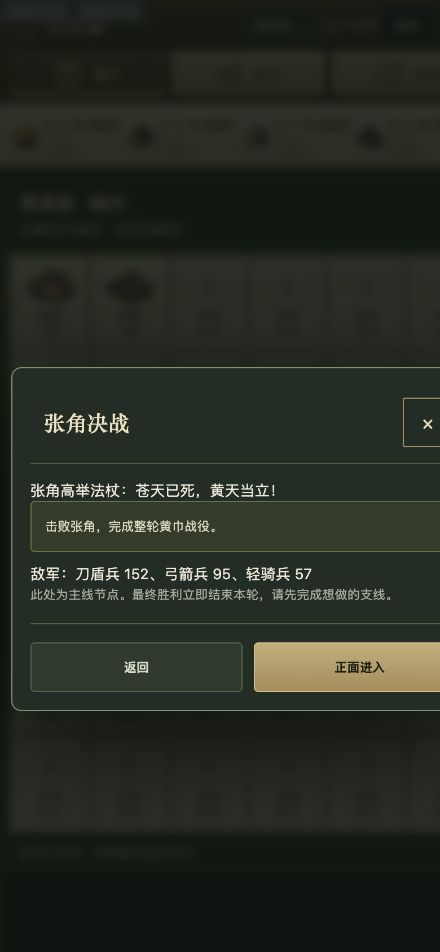
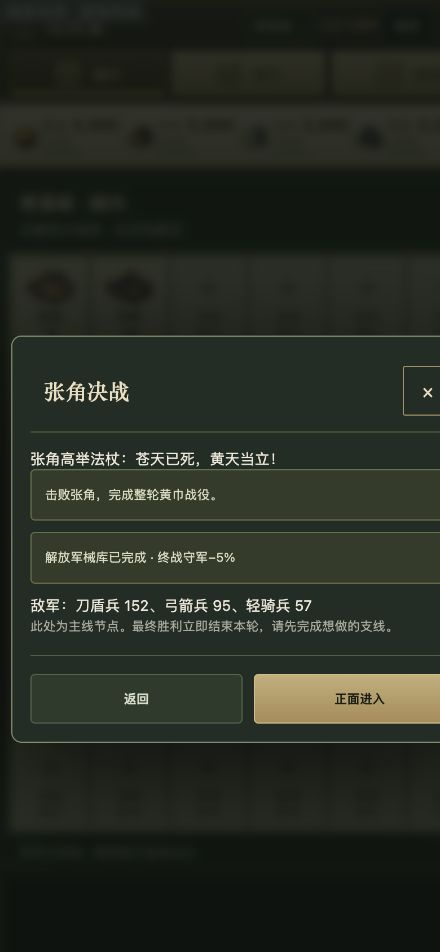
fix: preserve finished hero trait snapshots after dismissal

diff --git a/engine.js b/engine.js
@@ -311,7 +311,7 @@ const Game = (() => {
     for(const n of YellowCityData.allNodes()){const p=d.openCitySites[n.id];if(!object(p)||!Number.isInteger(p.x)||!Number.isInteger(p.y)||p.x<0||p.y<0||p.x>=WORLD_SIZE||p.y>=WORLD_SIZE||reservedSites.has(p.x+':'+p.y))return false;reservedSites.add(p.x+':'+p.y);}
     const node=id=>!!getNode(id,d);
     const timing=q=>finite(q.start)&&finite(q.end)&&q.end>q.start;
-    const frozen=(e,requireReturn=false)=>(e.traitProfile===undefined||HeroTraits.validProfile(e.traitProfile)&&e.traitProfile.id===HeroTraits.profile(d,e.general).id)&&(e.mountProfile===undefined||HeroSystem.validMountProfile(e.mountProfile))&&(e.generalSnapshot===undefined||object(e.generalSnapshot)&&e.generalSnapshot.id===e.general&&typeof e.generalSnapshot.name==='string'&&e.generalSnapshot.name.length<=100&&['atk','def','pol','wis','lead'].every(k=>finite(e.generalSnapshot[k])))&&(e.skillProfile===undefined||GeneralGrowth.validProfile(e.skillProfile))&&(e.returnSeconds===undefined?!(requireReturn&&e.mountProfile?.speed>0):finite(e.returnSeconds)&&e.returnSeconds>=1)&&(e.sourceCity===undefined||!!d.realm?.cities[e.sourceCity]);
+    const frozen=(e,requireReturn=false,validateIdentity=true)=>(e.traitProfile===undefined||HeroTraits.validProfile(e.traitProfile)&&(!validateIdentity||e.traitProfile.id===HeroTraits.profile(d,e.general).id))&&(e.mountProfile===undefined||HeroSystem.validMountProfile(e.mountProfile))&&(e.generalSnapshot===undefined||object(e.generalSnapshot)&&e.generalSnapshot.id===e.general&&typeof e.generalSnapshot.name==='string'&&e.generalSnapshot.name.length<=100&&['atk','def','pol','wis','lead'].every(k=>finite(e.generalSnapshot[k])))&&(e.skillProfile===undefined||GeneralGrowth.validProfile(e.skillProfile))&&(e.returnSeconds===undefined?!(requireReturn&&e.mountProfile?.speed>0):finite(e.returnSeconds)&&e.returnSeconds>=1)&&(e.sourceCity===undefined||!!d.realm?.cities[e.sourceCity]);
     const itemDrops=a=>object(a)&&Object.entries(a).every(([id,n])=>ManualData.shop.some(x=>x.id===id)&&integer(n)&&n>0&&n<=2);
     const tacticReceipt=r=>r.tacticEvents===undefined&&r.tacticPoints===undefined||Array.isArray(r.tacticEvents)&&r.tacticEvents.length<=60&&r.tacticEvents.every(t=>typeof t==='string'&&t.length<=500)&&object(r.tacticPoints)&&Object.keys(r.tacticPoints).length===2&&['player','enemy'].every(side=>integer(r.tacticPoints[side])&&r.tacticPoints[side]<=3);
     const result=r=>object(r)&&(r.facts===undefined||BattleReview.validFacts(r.facts)&&r.facts.endedBy!=='ongoing'&&(r.won?r.facts.endedBy==='win':r.facts.endedBy!=='win'))&&tacticReceipt(r)&&(r.returnAfterOccupy===undefined||typeof r.returnAfterOccupy==='boolean')&&(r.failure===undefined||r.failure===null||!r.won&&object(r.failure)&&['retreat','army','gate','enemy','gate_and_enemy'].includes(r.failure.reason)&&integer(r.failure.round)&&r.failure.round<=30&&integer(r.failure.enemyRemaining)&&integer(r.failure.gateHp)&&typeof r.failure.outOfRange==='boolean')&&HeroSystem.wild.validReceipt(r.wildGeneral,d)&&WarOrders.validReceipt(r.warOrder)&&(!r.warOrder||r.won&&(r.node===undefined||r.warOrder.node===r.node))&&(r.resourceReceipt===undefined||object(r.resourceReceipt)&&validReceipt(r.resourceReceipt.base)&&validReceipt(r.resourceReceipt.bonus))&&(r.equipmentDrops===undefined||Array.isArray(r.equipmentDrops)&&r.equipmentDrops.length<=1&&r.equipmentDrops.every(e=>HeroSystem.validEquipment(e,d)))&&(r.equipmentDiscarded===undefined||[0,1].includes(r.equipmentDiscarded))&&(r.prestigeDelta===undefined||Number.isSafeInteger(r.prestigeDelta))&&(r.jewelDrops===undefined||object(r.jewelDrops)&&Object.entries(r.jewelDrops).every(([id,n])=>Progression.jewels[id]&&integer(n)&&n<=2))&&(r.captures===undefined||army(r.captures))&&(r.captureDiscarded===undefined||integer(r.captureDiscarded))&&['raid','occupy'].includes(r.mode)&&typeof r.won==='boolean'&&loot(r.loot)&&(r.itemDrops===undefined||itemDrops(r.itemDrops))&&(r.bonusLoot===undefined||loot(r.bonusLoot))&&(r.bonusDiscarded===undefined||finite(r.bonusDiscarded))&&(r.cargoCapacity===undefined||integer(r.cargoCapacity))&&(r.cargoLoaded===undefined||integer(r.cargoLoaded)&&r.cargoLoaded<=r.cargoCapacity)&&(r.lootDiscarded===undefined||integer(r.lootDiscarded))&&army(r.back)&&army(r.lost)&&army(r.wounded)&&finite(r.xp)&&finite(r.overflow)&&validOverCapacityTotal(r)&&(r.recruit===null||generals.some(g=>g.id===r.recruit));
@@ -353,7 +353,7 @@ const Game = (() => {
     if(!d.defenseQueue.every(q=>object(q)&&Object.hasOwn(ManualData.defenses,q.id)&&integer(q.count)&&q.count>0&&q.count<=10000&&timing(q)))return false;
     if(!Object.entries(d.landClaims).every(([id,c])=>getNode(id,d)?.wild&&object(c)&&finite(c.at)&&integer(c.level)&&c.level<=10)||!Object.entries(d.scouted).every(([id,c])=>node(id)&&object(c)&&finite(c.at)&&integer(c.level)&&c.level<=10))return false;
     const roundSummary=(s,b)=>object(s)&&s.round===b.round&&Array.isArray(s.events)&&s.events.length<=150&&s.events.every(e=>object(e)&&['move','strike','recoil','gate','tower'].includes(e.type)&&['player','enemy'].includes(e.side)&&(Object.hasOwn(units,e.unit)||['gate','tower'].includes(e.unit))&&(e.target===''||Object.hasOwn(units,e.target)||['gate','tower'].includes(e.target))&&['from','to','damage'].every(k=>finite(e[k]))&&e.from<=b.length&&e.to<=b.length&&integer(e.killed)&&typeof e.counter==='boolean'&&typeof e.ranged==='boolean'&&(e.type!=='move'||e.damage===0&&e.killed===0)&&(e.type!=='gate'||e.target==='gate'&&e.killed===0)&&(e.type!=='tower'||e.unit==='tower')&&(e.type!=='strike'||Object.hasOwn(units,e.unit)&&Object.hasOwn(units,e.target)));
-    if(d.battle!==null){const b=d.battle;if(!b||(b.traitProfile!==undefined&&(!HeroTraits.validProfile(b.traitProfile)||!b.finished&&b.traitProfile.id!==HeroTraits.profile(d,b.general).id))||(b.facts!==undefined&&(!BattleReview.validFacts(b.facts)||b.facts.rounds!==b.round||b.finished&&(JSON.stringify(b.facts)!==JSON.stringify(b.result?.facts))))||!b.player?.every(r=>HeroSystem.validSpeedStats(r.stats,r.id,b.mountProfile))||!b.enemy?.every(r=>HeroSystem.validSpeedStats(r.stats,r.id,b.mountProfile,false))||!b.finished&&JSON.stringify(b.mountProfile)!==JSON.stringify(d.expedition?.mountProfile))return false;const encounter=object(b)&&WarOrders.encounterConfig?.(b.node);if(encounter&&(b.rules!==3||b.stratagem?.version!==2||b.length!==encounter.length))return false;if(object(b)&&b.rules===3&&(!object(b.generalSnapshot)||b.generalSnapshot.id!==b.general||(b.generalSnapshot.wildLine||'')!==((d.customGenerals.find(g=>g.id===b.general)||generals.find(g=>g.id===b.general))?.wildLine||'')||!b.finished&&d.expedition?.generalSnapshot&&(b.generalSnapshot.wildLine||'')!==(d.expedition.generalSnapshot.wildLine||'')||!b.finished&&(b.enemyGeneralSnapshot?.wildLine||'')!==(d.wildGenerals?.rumors.find(r=>r.status==='active'&&r.node===b.node)?.line||'')||!object(b.enemyGeneralSnapshot)||b.enemyGeneralSnapshot.id!=='enemy_'+b.node||typeof b.enemyGeneralSnapshot.name!=='string'||b.enemyGeneralSnapshot.name.length>100||typeof b.enemyGeneralSnapshot.wildLine!=='string'||b.enemyGeneralSnapshot.wildLine.length>40||(b.enemyGeneralSnapshot.encounterIdentity!==undefined&&b.enemyGeneralSnapshot.encounterIdentity!==WarOrders.encounterConfig?.(b.node)?.enemyIdentity)||(WarOrders.encounterConfig?.(b.node)&&b.enemyGeneralSnapshot.encounterIdentity!==WarOrders.encounterConfig(b.node).enemyIdentity)||!object(b.enemyOrders)||Object.keys(b.enemyOrders).length!==b.enemy?.length||!b.enemy?.every(r=>object(b.enemyOrders[r.id])&&['advance','hold','fallback'].includes(b.enemyOrders[r.id].command)&&(b.enemyOrders[r.id].target===''||b.player?.some(p=>p.id===b.enemyOrders[r.id].target)))||b.lesson!==undefined))return false;if(!object(b)||!frozen(b)||!['raid','occupy'].includes(b.mode)||typeof b.siege!=='boolean'||!integer(b.militia)||![2,3].includes(b.rules)||(b.rules===3&&(typeof BattleStratagems==='undefined'||!b.stratagem||!BattleStratagems.valid(b,{units})))||(b.rules===2&&b.stratagem!==undefined)||!integer(b.length)||b.length<200||b.length>10000||!node(b.node)||!(b.finished?knownHero(b.general):d.generals.includes(b.general))||!integer(b.round)||b.round>30||(b.machineGateAttacks!==undefined&&(!integer(b.machineGateAttacks)||b.machineGateAttacks>b.round*2))||(b.currentRoundSummary!==undefined&&!roundSummary(b.currentRoundSummary,b))||typeof b.finished!=='boolean'||typeof b.auto!=='boolean'||!rows(b.player,b.length)||!rows(b.enemy,b.length)||!object(b.orders)||!SiegeSystem.valid(b.gate,getNode(b.node,d),b.mode)||!b.player.every(r=>object(b.orders[r.id])&&['advance','hold','fallback'].includes(b.orders[r.id].command)&&(b.orders[r.id].target===''||b.orders[r.id].target==='gate'&&!!b.gate||Object.hasOwn(units,b.orders[r.id].target)))||!Array.isArray(b.log)||b.log.length>40||!b.log.every(t=>typeof t==='string'&&t.length<1000))return false;if(b.finished?(!result(b.result)||b.result.warOrder&&b.result.warOrder.node!==b.node):!d.expedition||d.expedition.phase!=='battle'||d.expedition.node!==b.node||d.expedition.general!==b.general)return false;}
+    if(d.battle!==null){const b=d.battle;if(!b||(b.traitProfile!==undefined&&(!HeroTraits.validProfile(b.traitProfile)||!b.finished&&b.traitProfile.id!==HeroTraits.profile(d,b.general).id))||(b.facts!==undefined&&(!BattleReview.validFacts(b.facts)||b.facts.rounds!==b.round||b.finished&&(JSON.stringify(b.facts)!==JSON.stringify(b.result?.facts))))||!b.player?.every(r=>HeroSystem.validSpeedStats(r.stats,r.id,b.mountProfile))||!b.enemy?.every(r=>HeroSystem.validSpeedStats(r.stats,r.id,b.mountProfile,false))||!b.finished&&JSON.stringify(b.mountProfile)!==JSON.stringify(d.expedition?.mountProfile))return false;const encounter=object(b)&&WarOrders.encounterConfig?.(b.node);if(encounter&&(b.rules!==3||b.stratagem?.version!==2||b.length!==encounter.length))return false;if(object(b)&&b.rules===3&&(!object(b.generalSnapshot)||b.generalSnapshot.id!==b.general||(b.generalSnapshot.wildLine||'')!==((d.customGenerals.find(g=>g.id===b.general)||generals.find(g=>g.id===b.general))?.wildLine||'')||!b.finished&&d.expedition?.generalSnapshot&&(b.generalSnapshot.wildLine||'')!==(d.expedition.generalSnapshot.wildLine||'')||!b.finished&&(b.enemyGeneralSnapshot?.wildLine||'')!==(d.wildGenerals?.rumors.find(r=>r.status==='active'&&r.node===b.node)?.line||'')||!object(b.enemyGeneralSnapshot)||b.enemyGeneralSnapshot.id!=='enemy_'+b.node||typeof b.enemyGeneralSnapshot.name!=='string'||b.enemyGeneralSnapshot.name.length>100||typeof b.enemyGeneralSnapshot.wildLine!=='string'||b.enemyGeneralSnapshot.wildLine.length>40||(b.enemyGeneralSnapshot.encounterIdentity!==undefined&&b.enemyGeneralSnapshot.encounterIdentity!==WarOrders.encounterConfig?.(b.node)?.enemyIdentity)||(WarOrders.encounterConfig?.(b.node)&&b.enemyGeneralSnapshot.encounterIdentity!==WarOrders.encounterConfig(b.node).enemyIdentity)||!object(b.enemyOrders)||Object.keys(b.enemyOrders).length!==b.enemy?.length||!b.enemy?.every(r=>object(b.enemyOrders[r.id])&&['advance','hold','fallback'].includes(b.enemyOrders[r.id].command)&&(b.enemyOrders[r.id].target===''||b.player?.some(p=>p.id===b.enemyOrders[r.id].target)))||b.lesson!==undefined))return false;if(!object(b)||!frozen(b,false,!b.finished)||!['raid','occupy'].includes(b.mode)||typeof b.siege!=='boolean'||!integer(b.militia)||![2,3].includes(b.rules)||(b.rules===3&&(typeof BattleStratagems==='undefined'||!b.stratagem||!BattleStratagems.valid(b,{units})))||(b.rules===2&&b.stratagem!==undefined)||!integer(b.length)||b.length<200||b.length>10000||!node(b.node)||!(b.finished?knownHero(b.general):d.generals.includes(b.general))||!integer(b.round)||b.round>30||(b.machineGateAttacks!==undefined&&(!integer(b.machineGateAttacks)||b.machineGateAttacks>b.round*2))||(b.currentRoundSummary!==undefined&&!roundSummary(b.currentRoundSummary,b))||typeof b.finished!=='boolean'||typeof b.auto!=='boolean'||!rows(b.player,b.length)||!rows(b.enemy,b.length)||!object(b.orders)||!SiegeSystem.valid(b.gate,getNode(b.node,d),b.mode)||!b.player.every(r=>object(b.orders[r.id])&&['advance','hold','fallback'].includes(b.orders[r.id].command)&&(b.orders[r.id].target===''||b.orders[r.id].target==='gate'&&!!b.gate||Object.hasOwn(units,b.orders[r.id].target)))||!Array.isArray(b.log)||b.log.length>40||!b.log.every(t=>typeof t==='string'&&t.length<1000))return false;if(b.finished?(!result(b.result)||b.result.warOrder&&b.result.warOrder.node!==b.node):!d.expedition||d.expedition.phase!=='battle'||d.expedition.node!==b.node||d.expedition.general!==b.general)return false;}
     if(!HeritageSystem.valid(d)||!NPCDefense.valid(d,units,ManualData.defenses,validReceipt,d.realm?.activeCity))return false;
     if(!GeneralGrowth.valid(d)||!ScoutSystem.valid(d,scoutApi(d))||!RegionalFront.valid(d,d.realm?.cities?.[d.realm.activeCity])||!HeroAdministration.valid(d,{cityId:d.realm?.activeCity}))return false;
     if(!WarCare.valid(d)||!GovernanceSystem.valid(d))return false;

diff --git a/battlefield-ui.js b/battlefield-ui.js
@@ -44,7 +44,7 @@ const battlefieldUI=(()=>{
     case 'battlefieldStarter':if(result(Game.claimStarterReinforcementToken(),'援军令已收入背包'))map();break;
     case 'battlefieldBuyAsk':ask('购买援军令','从当前城支付2500黄金，购买援军令 ×1。','Buy');break;
     case 'battlefieldBuy':if(result(Game.buyReinforcementToken(),'援军令已收入背包'))map();break;
-    case 'battlefieldNodeAsk':{const n=v.nodes.find(x=>x.id===id);if(!r||!n?.available){toast(n?.reason||'请先开始战役');break;}showModal(n.name,`<p>${esc(n.intro)}</p><p class="notice">${esc(n.objective)}</p><p>敌军：${n.dialogue?'无需战斗，护送医官':armyHTML(BattlefieldSystem.nodeForRun(r,n.id).army)}</p>${r.infiltration[id]==='infiltration'?'<p class="hint">潜入守军：'+armyHTML(BattlefieldSystem.nodeForRun(r,id,'infiltration').army)+'</p>':''}${id===c.discover&&r.routeDiscovered?'<p class="hint">密道守军：'+armyHTML(BattlefieldSystem.nodeForRun(r,id,'hidden').army)+'</p>':''}<p class="hint">${n.kind==='side'?'此支线可选；完成后增加整轮收益。':'此处为主线节点。'}${id===c.finalNode?'最终胜利立即结束本轮，请先完成想做的支线。':''}</p>`,btn('返回','battlefieldOpen','','secondary')+btn(n.dialogue?'护送医官':r.infiltration[id]==='infiltration'?'潜入':'正面进入','battlefieldEnter',id+'|'+(r.infiltration[id]||'normal'))+(id===c.discover&&r.routeDiscovered?btn('密道','battlefieldEnter',id+'|hidden','secondary'):'')+(id===c.infiltration?infiltrationHTML(r,id,c):''));break;}
+    case 'battlefieldNodeAsk':{const n=v.nodes.find(x=>x.id===id);if(!r||!n?.available){toast(n?.reason||'请先开始战役');break;}showModal(n.name,`<p>${esc(n.intro)}</p><p class="notice">${esc(n.objective)}</p>${id===c.finalNode&&r.completed.includes(c.supplySide)?`<p class="notice">${esc(BattlefieldData.get(c.supplySide,c.id).name)}已完成 · 终战守军−5%</p>`:''}<p>敌军：${n.dialogue?'无需战斗，护送医官':armyHTML(BattlefieldSystem.nodeForRun(r,n.id).army)}</p>${r.infiltration[id]==='infiltration'?'<p class="hint">潜入守军：'+armyHTML(BattlefieldSystem.nodeForRun(r,id,'infiltration').army)+'</p>':''}${id===c.discover&&r.routeDiscovered?'<p class="hint">密道守军：'+armyHTML(BattlefieldSystem.nodeForRun(r,id,'hidden').army)+'</p>':''}<p class="hint">${n.kind==='side'?'此支线可选；完成后增加整轮收益。':'此处为主线节点。'}${id===c.finalNode?'最终胜利立即结束本轮，请先完成想做的支线。':''}</p>`,btn('返回','battlefieldOpen','','secondary')+btn(n.dialogue?'护送医官':r.infiltration[id]==='infiltration'?'潜入':'正面进入','battlefieldEnter',id+'|'+(r.infiltration[id]||'normal'))+(id===c.discover&&r.routeDiscovered?btn('密道','battlefieldEnter',id+'|hidden','secondary'):'')+(id===c.infiltration?infiltrationHTML(r,id,c):''));break;}
     case 'battlefieldEnter':{const [node,choice]=id.split('|');if(result(Game.enterBattlefieldNode(node,choice)))battle();break;}
     case 'battlefieldSelect':if(r?.battle?.player.some(row=>row.id===id&&row.hp>0)){selectedUnit=id;battle();}break;
     case 'battlefieldOrder':{const [unit,command]=id.split('|');if(result(Game.battlefieldOrder(unit,command,document.getElementById('battlefield-target-'+unit)?.value||'')))battle();break;}

diff --git a/hero-traits.js b/hero-traits.js
@@ -8,6 +8,6 @@ const HeroTraits=(()=>{
     if(p.id==='menghuo'&&unitId==='shield'&&command==='hold')v.damageTaken=.95;
     if(p.id==='zhurong'&&unitId==='archer')v.initiative=1.05;return v;
   }
-  function describe(p,hero){const text={guanyu:'武圣 · 近战攻门 +8%',menghuo:'蛮王 · 刀盾固守减伤 5%',zhurong:'火神 · 弓队先手 +5%'};return text[p?.id]||(ManualData.units[hero?.bonus]?'兵种专长 · '+ManualData.units[hero.bonus].name:'按已有专长与计谋指挥');}
+  function describe(p,hero){const text={guanyu:'武圣 · 近战攻门 +8%',menghuo:'蛮王 · 刀盾固守减伤 5%（灵斩折损除外）',zhurong:'火神 · 弓队先手 +5%'};return text[p?.id]||(ManualData.units[hero?.bonus]?'兵种专长 · '+ManualData.units[hero.bonus].name:'按已有专长与计谋指挥');}
   return {profile,validProfile,modifiers,describe};
 })();

diff --git a/production/qa/hero-traits-supply-v0.34.68.md b/production/qa/hero-traits-supply-v0.34.68.md
@@ -1,8 +1,8 @@
 # v0.34.68 验收
 
 - 第三批：三个真实身份特色、普通/租兵快照、支线终战减兵和旧战不追溯。
-- 定向40/40；完整848/848（候选号更新后补跑发布版本检查）。
+- 定向40/40；最终完整851/851，候选号版本检查通过。
 - 390/440/1280浏览器尺寸截图；实际打开关羽详情，统率450；黄巾s3已完成的终战预览152盾/95弓/57骑。页面无横向溢出，手机确认按钮44px。截图为预置功能档；真机iPhone Safari未测。
 - 新冻结字段严格校验，旧字段缺失不回填特色或减兵。减兵失败重试从基础配置计算；救援和每日首箱规则沿既有测试覆盖。
 - 三特色对照以及18条正常经济副本路线见design/balance报告。江陵自然经济不评为通过。
-- 独立审查与CI待填写；尚未合并上线。
+- 独立审查发现解雇后已结束战斗的历史身份校验使存档失效，已修复并以返城→解雇→重读测试RED→GREEN覆盖。终战收益说明及灵斩例外两项升级为必须说明，均RED→GREEN；CI待填写；尚未合并上线。
